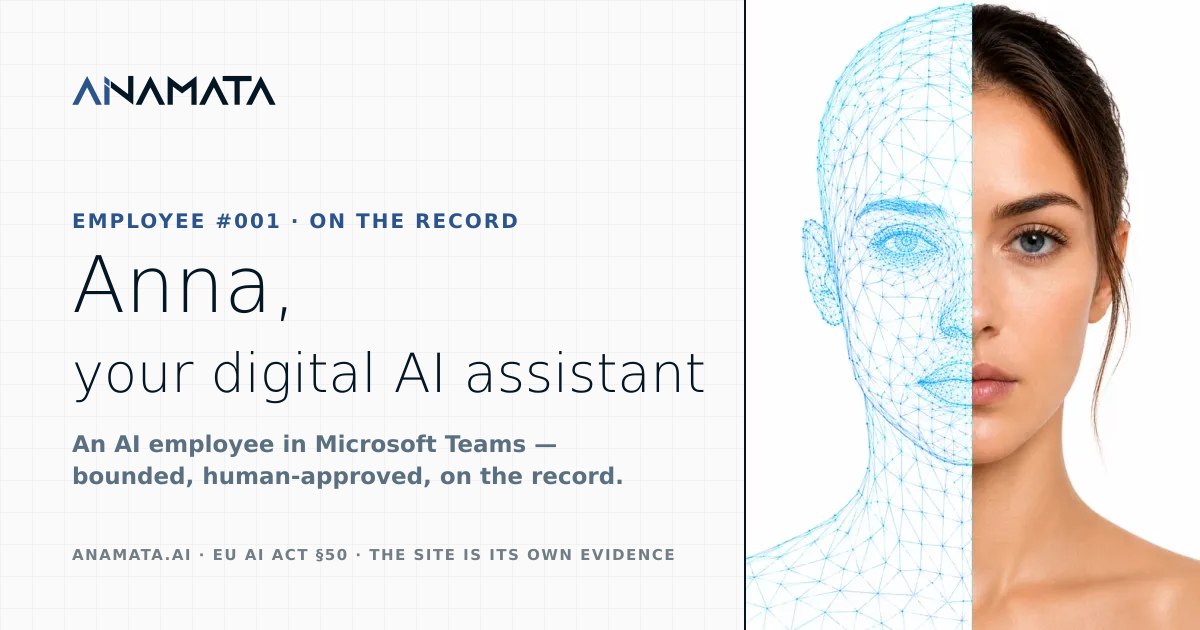
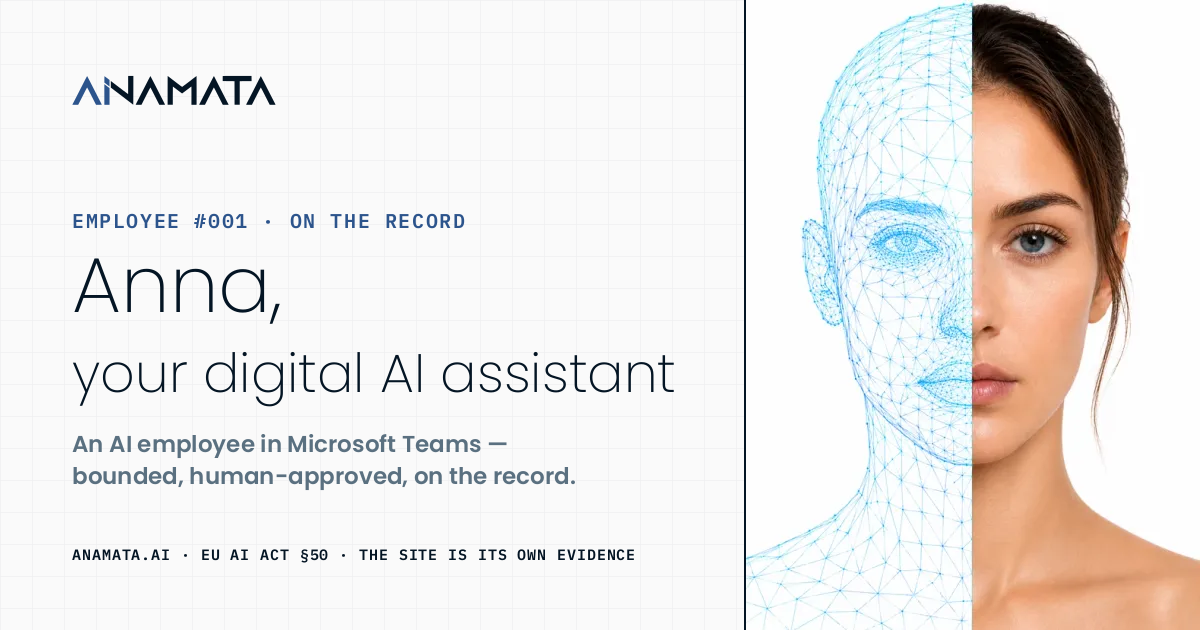
fix(og): render real Poppins/Plex glyphs as paths, not fallback
Review found the OG card shipped in DejaVu fallback, not brand type:
librsvg silently ignores data-URI @user, so the previous embedded-woff2
approach rendered no Poppins at all.

- Convert card text to real glyph outlines with opentype.js reading the
  @user WOFF files (Poppins 200/600, IBM Plex Mono 600) — paths are
  the only mechanism librsvg reliably rasterises. Pure Node, no browser, no
  committed font binaries, no network.
- Round each pen position to an integer: opentype.js emits a NaN control
  point for curved glyphs (C/O/R) at fractional offsets, and librsvg then
  renders the path only up to the NaN, silently truncating the line. Added a
  hard NaN guard so a malformed card can never ship again.
- Card unchanged otherwise: 1200x630 PNG, no EXIF/XMP, split-face portrait +
  outlined wordmark. opentype.js added as a devDependency; README updated.

diff --git a/README.md b/README.md
@@ -36,8 +36,13 @@ artifact (they are **not** regenerated by `npm run build`):
 - **Social card** — `public/og-image.png` (1200×630), via `npm run og`
   (`scripts/build-og-image.mjs`). Composed from the in-repo, metadata-stripped
   split-face portrait plus the outlined wordmark; wired as the default
-  `og:image` (absolute URL) in `src/layouts/Base.astro`. No imagery is ever
-  generated via Higgsfield without explicit approval.
+  `og:image` (absolute URL) in `src/layouts/Base.astro`. Brand type (Poppins
+  200/600, IBM Plex Mono 600) is rendered as real glyph **outlines** via
+  opentype.js reading the `@fontsource` WOFF files — librsvg silently ignores
+  data-URI `@font-face`, so paths are the only reliable mechanism; the script
+  hard-fails if any glyph path is malformed. Pure Node, no browser, no committed
+  font binaries, no network. No imagery is ever generated via Higgsfield without
+  explicit approval.
 
 ## Launch checks
 